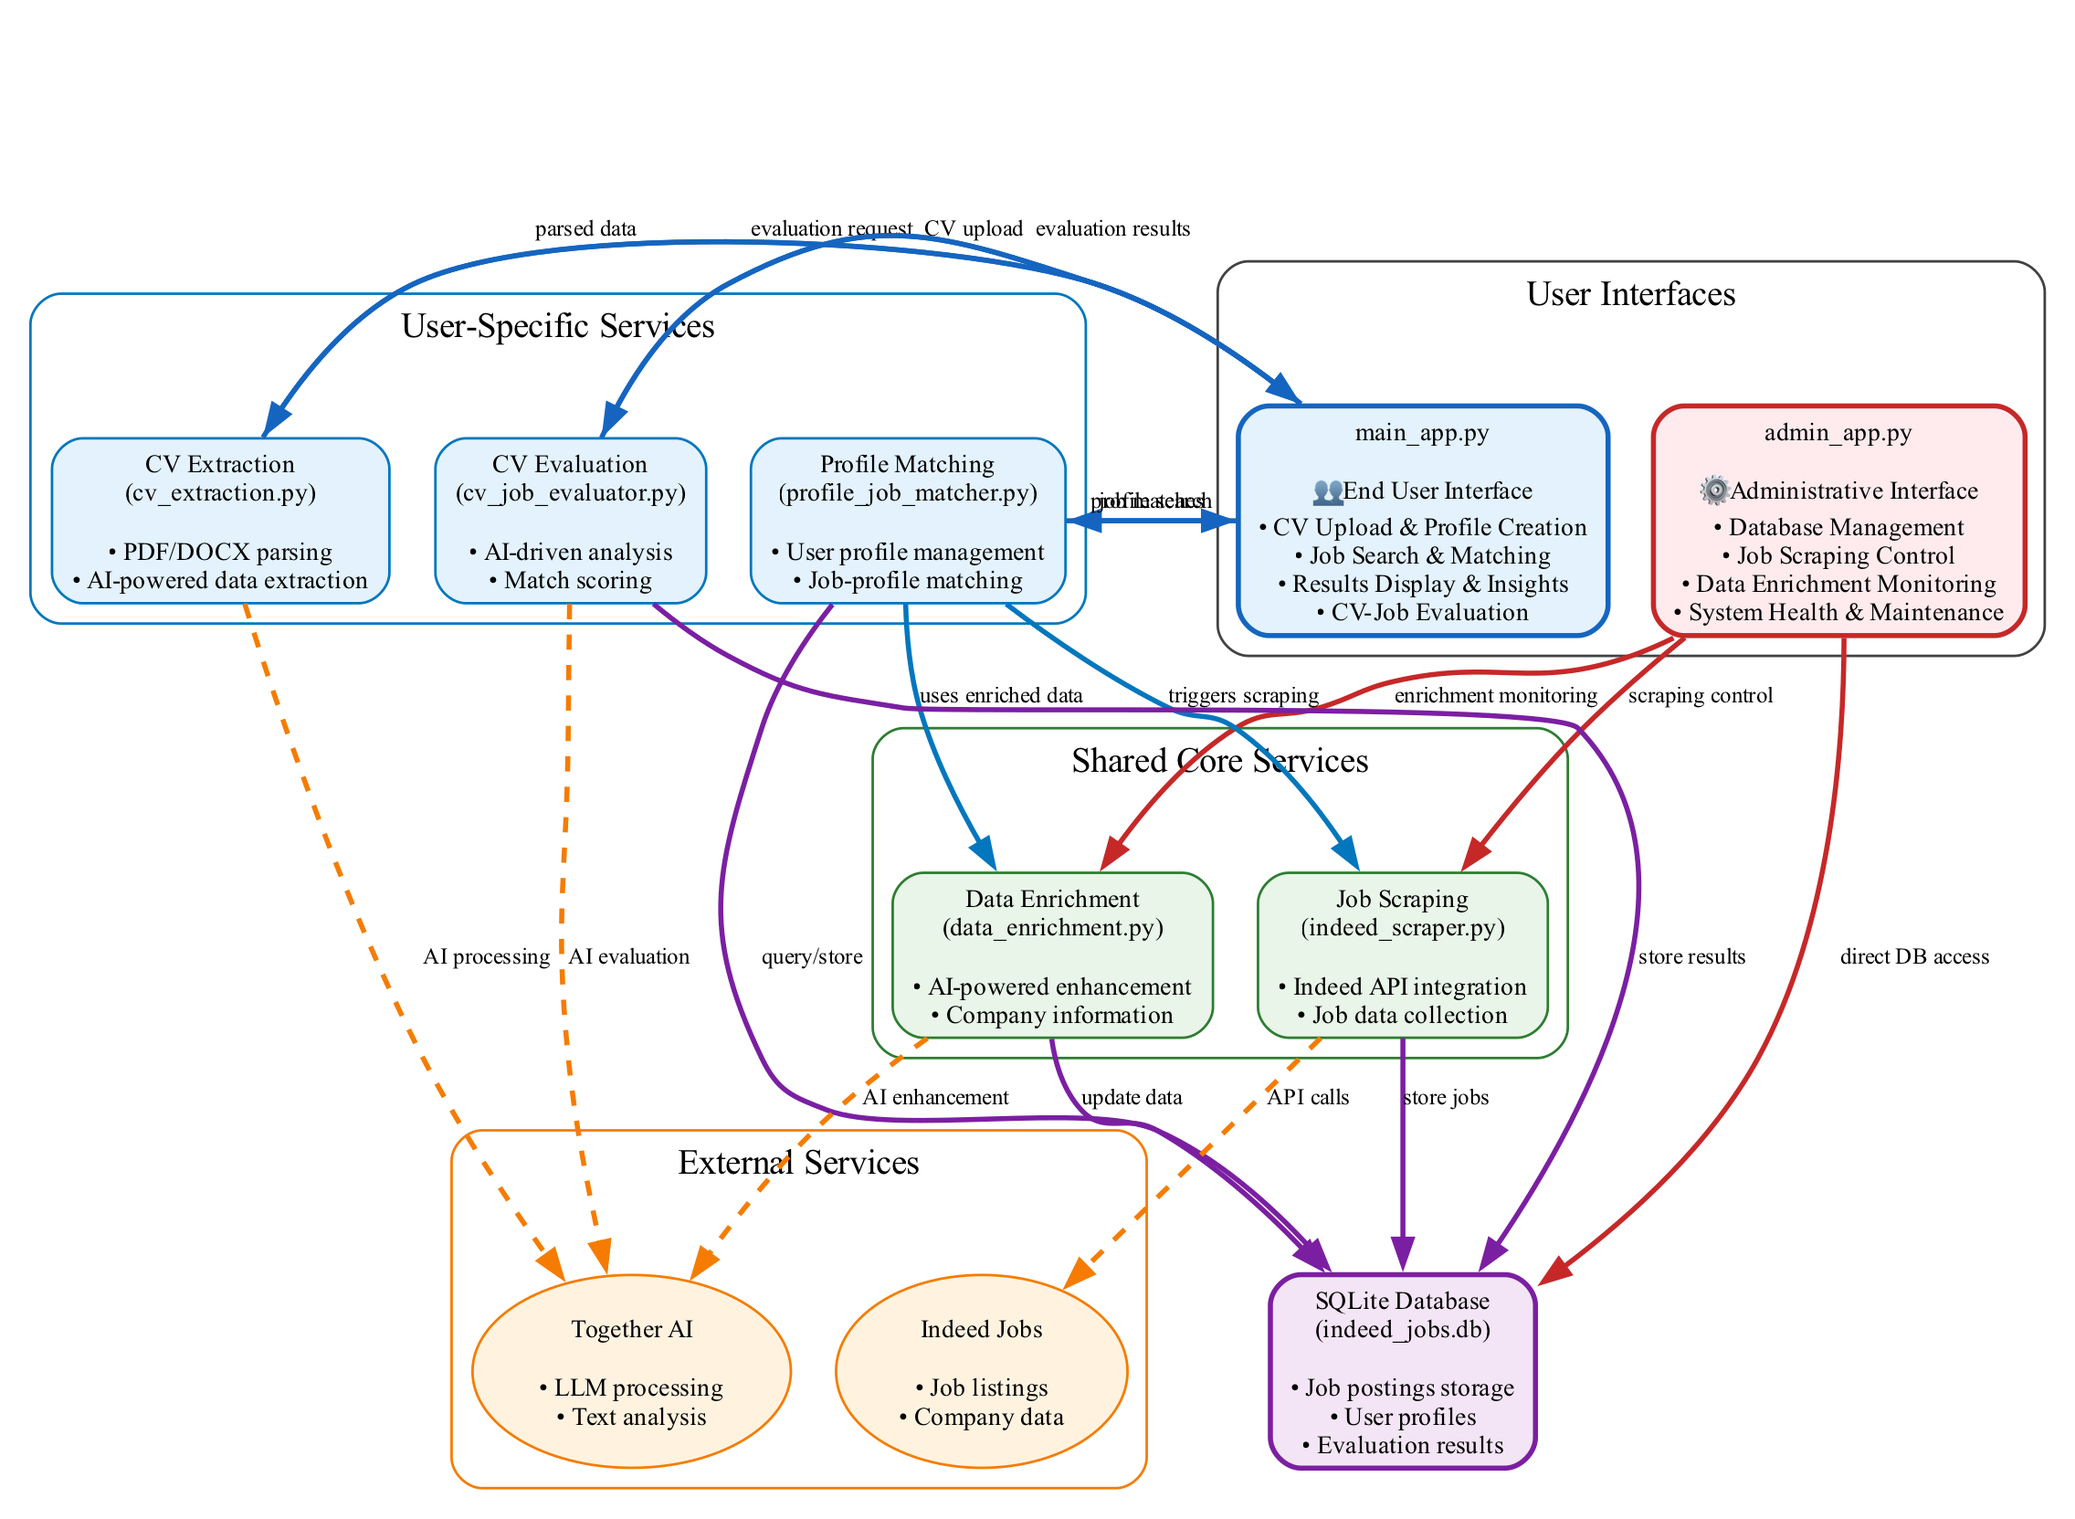
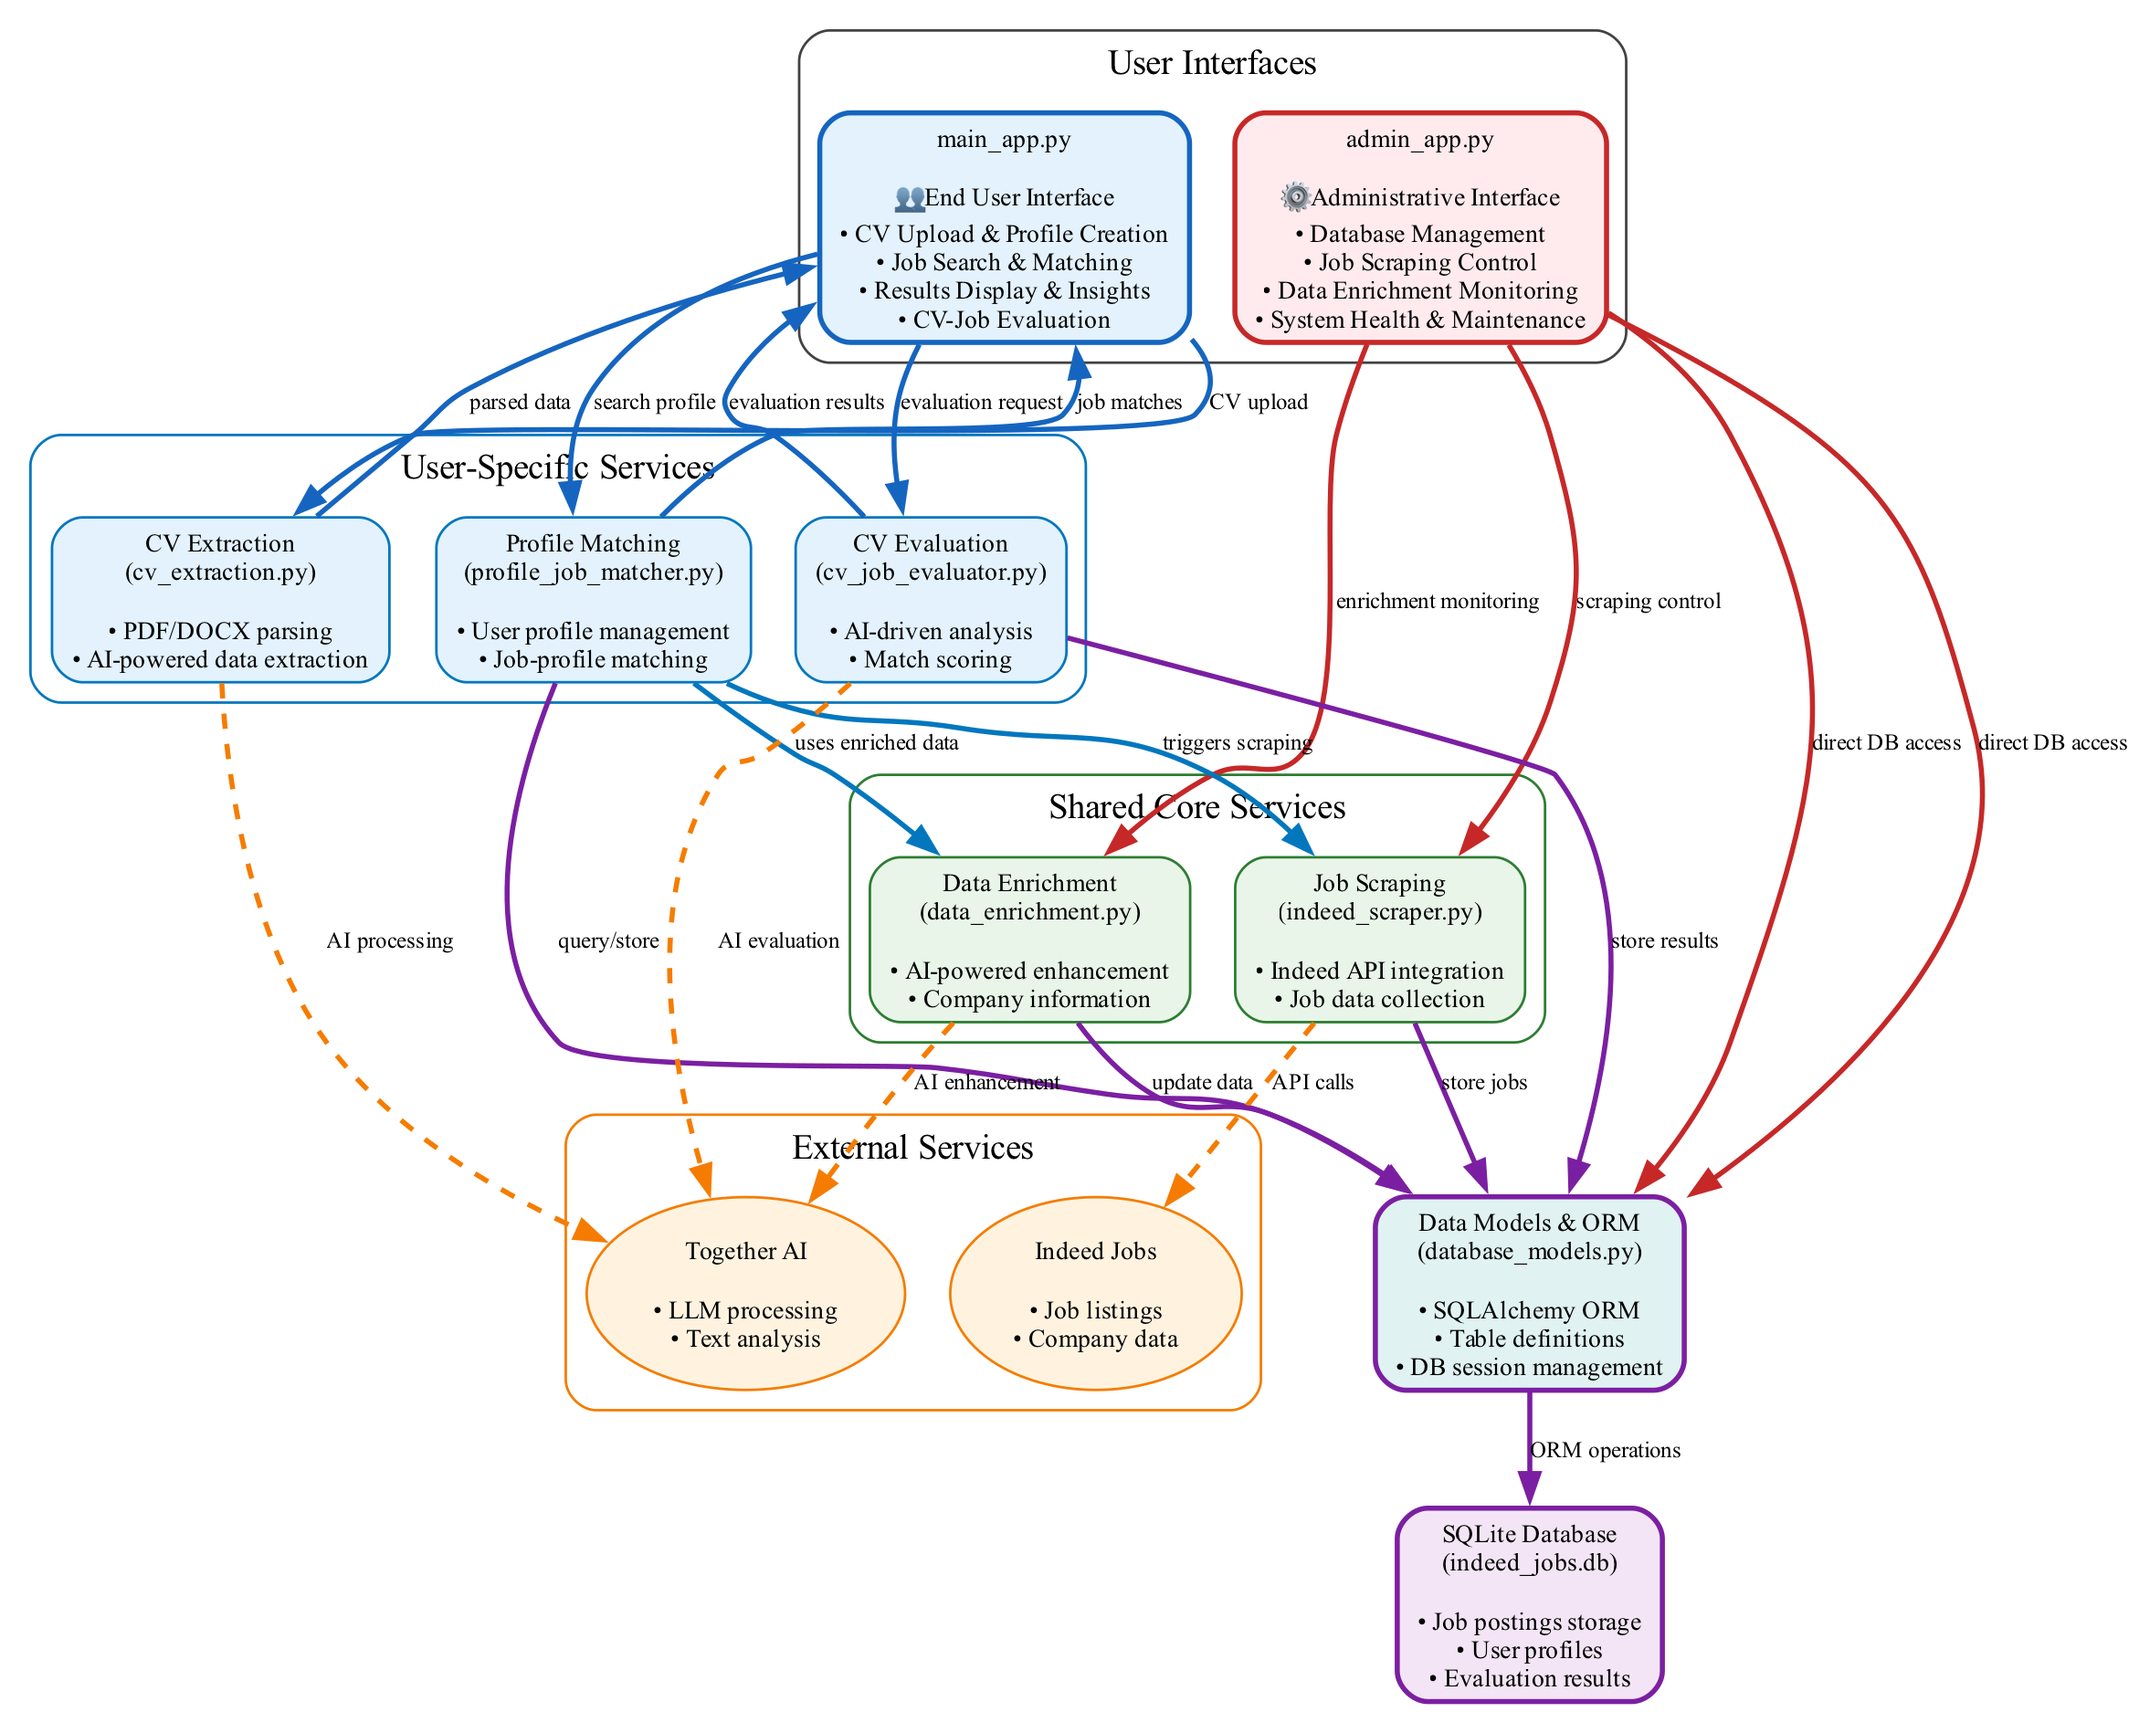
fix: update dual interface diagram to include ORM layer and improve edge labels

diff --git a/src/skillscope/utils/system_architecture.py b/src/skillscope/utils/system_architecture.py
@@ -1104,9 +1104,10 @@ def create_dual_interface_diagram():
         c.node('data_enrichment', 'Data Enrichment\n(data_enrichment.py)\n\n• AI-powered enhancement\n• Company information', 
                fillcolor='#E8F5E8', color=SHARED_COLOR)
     
-    # Database Layer
-    dot.node('database', 'SQLite Database\n(indeed_jobs.db)\n\n• Job postings storage\n• User profiles\n• Evaluation results', 
-             fillcolor='#F3E5F5', color=DATABASE_COLOR, penwidth='2')
+    # Database Layer (add ORM node between modules and DB)
+    dot.node('database_models', 'Data Models & ORM\n(database_models.py)\n\n• SQLAlchemy ORM\n• Table definitions\n• DB session management', fillcolor='#E0F2F1', color='#7B1FA2', penwidth='2')
+    
+    dot.node('database', 'SQLite Database\n(indeed_jobs.db)\n\n• Job postings storage\n• User profiles\n• Evaluation results', fillcolor='#F3E5F5', color=DATABASE_COLOR, penwidth='2')
     
     # External Services
     with dot.subgraph(name='cluster_external') as c:
@@ -1120,7 +1121,7 @@ def create_dual_interface_diagram():
     
     # Main App connections
     dot.edge('main_app', 'cv_extraction', label='CV upload', color=USER_APP_COLOR)
-    dot.edge('main_app', 'profile_matcher', label='profile search', color=USER_APP_COLOR)
+    dot.edge('main_app', 'profile_matcher', label='search profile', color=USER_APP_COLOR, minlen='2')
     dot.edge('main_app', 'cv_evaluator', label='evaluation request', color=USER_APP_COLOR)
     # Add result arrow from CV Extraction back to main_app
     dot.edge('cv_extraction', 'main_app', label='parsed data', color=USER_APP_COLOR)
@@ -1128,7 +1129,7 @@ def create_dual_interface_diagram():
     # Admin App connections - increased privileges for shared core services
     dot.edge('admin_app', 'job_scraper', label='scraping control', color=ADMIN_APP_COLOR, style='bold')
     dot.edge('admin_app', 'data_enrichment', label='enrichment monitoring', color=ADMIN_APP_COLOR, style='bold')
-    dot.edge('admin_app', 'database', label='direct DB access', color=ADMIN_APP_COLOR, style='bold')
+    dot.edge('admin_app', 'database_models', label='direct DB access', color=ADMIN_APP_COLOR, style='bold')
     
     # Profile matcher connections to shared services (now more explicitly shown)
     dot.edge('profile_matcher', 'job_scraper', label='triggers scraping', color=USER_MODULES_COLOR)
@@ -1140,14 +1141,17 @@ def create_dual_interface_diagram():
     dot.edge('data_enrichment', 'together_ai', label='AI enhancement', color=EXTERNAL_COLOR, style='dashed')
     dot.edge('cv_evaluator', 'together_ai', label='AI evaluation', color=EXTERNAL_COLOR, style='dashed')
     
-    # Database connections
-    dot.edge('job_scraper', 'database', label='store jobs', color=DATABASE_COLOR)
-    dot.edge('profile_matcher', 'database', label='query/store', color=DATABASE_COLOR)
-    dot.edge('data_enrichment', 'database', label='update data', color=DATABASE_COLOR)
-    dot.edge('cv_evaluator', 'database', label='store results', color=DATABASE_COLOR)
+    dot.edge('job_scraper', 'database_models', label='store jobs', color=DATABASE_COLOR)
+    dot.edge('profile_matcher', 'database_models', label='query/store', color=DATABASE_COLOR)
+    dot.edge('data_enrichment', 'database_models', label='update data', color=DATABASE_COLOR)
+    dot.edge('cv_evaluator', 'database_models', label='store results', color=DATABASE_COLOR)
+    dot.edge('admin_app', 'database_models', label='direct DB access', color=ADMIN_APP_COLOR, style='bold')
+    
+    # ORM to DB connection
+    dot.edge('database_models', 'database', label='ORM operations', color=DATABASE_COLOR, style='bold')
     
     # Results flow
-    dot.edge('profile_matcher', 'main_app', label='job matches', color=USER_APP_COLOR)
+    dot.edge('profile_matcher', 'main_app', label='job matches', color=USER_APP_COLOR, constraint='false', minlen='2')
     dot.edge('cv_evaluator', 'main_app', label='evaluation results', color=USER_APP_COLOR)
     
     return dot
